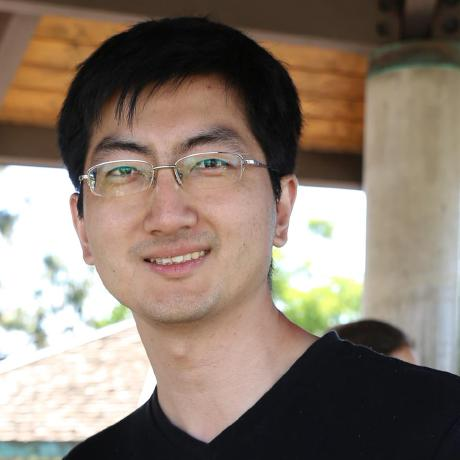
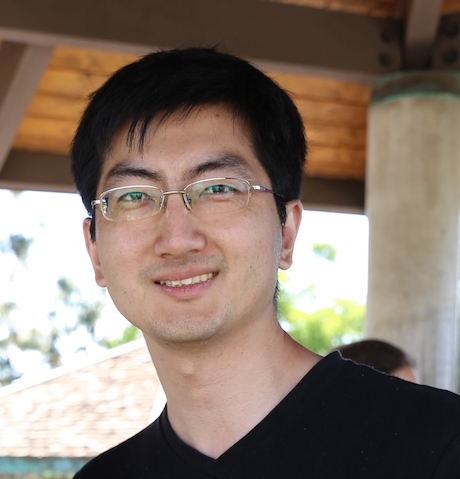
update photo

diff --git a/index.html b/index.html
@@ -22,7 +22,7 @@
 <body>
     <div id="main-wrap">
         <div class="container">
-            <span style="display: table;width:auto;position:relative;float:left;max-width:100%;;clear:left;margin-top:0px;*margin-top:0px"><a><img src="./haoli.jpeg" style="margin-top: 15px; margin-bottom: 10px; margin-left: 0px; margin-right: 30px; border-width:0; max-width:100%" width="174" height="174"></a>
+            <span style="display: table;width:auto;position:relative;float:left;max-width:100%;;clear:left;margin-top:0px;*margin-top:0px"><a><img src="./haoli.jpeg" style="margin-top: 15px; margin-bottom: 10px; margin-left: 0px; margin-right: 30px; border-width:0; max-width:100%" height="200"></a>
             </span>
             <div class="paragraph" style="text-align:left;display:block;">
                 <table>
